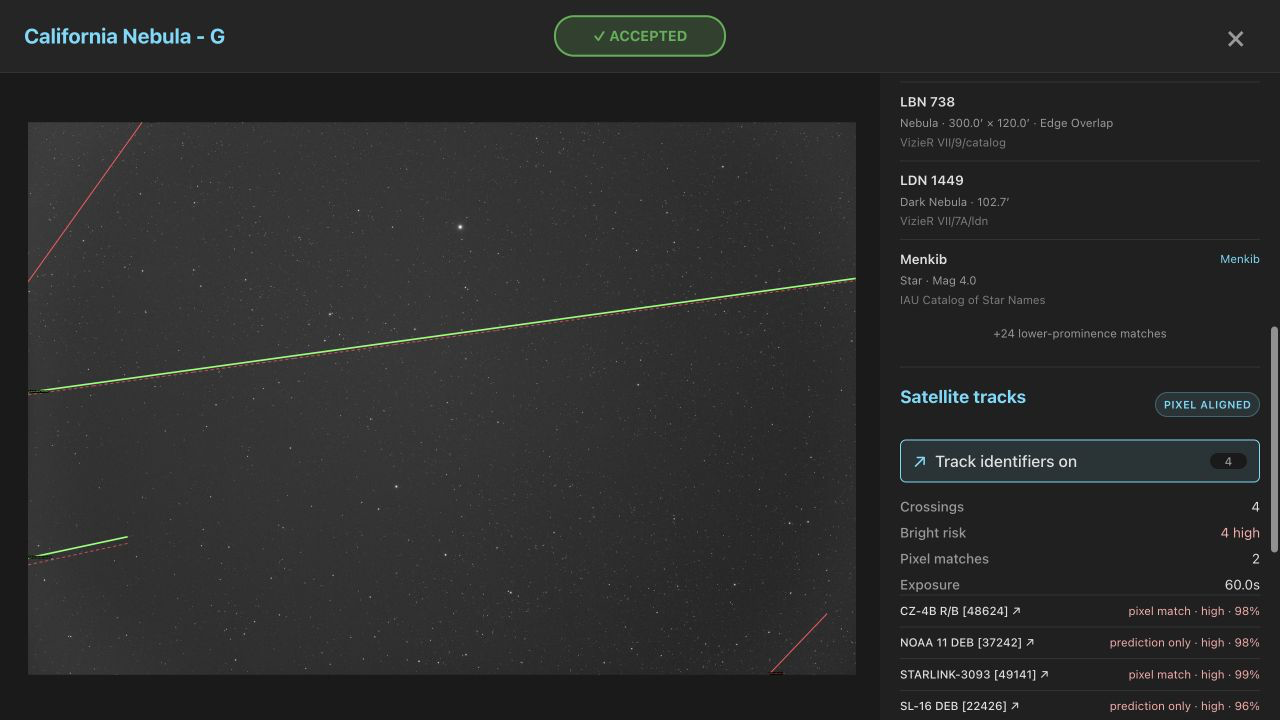
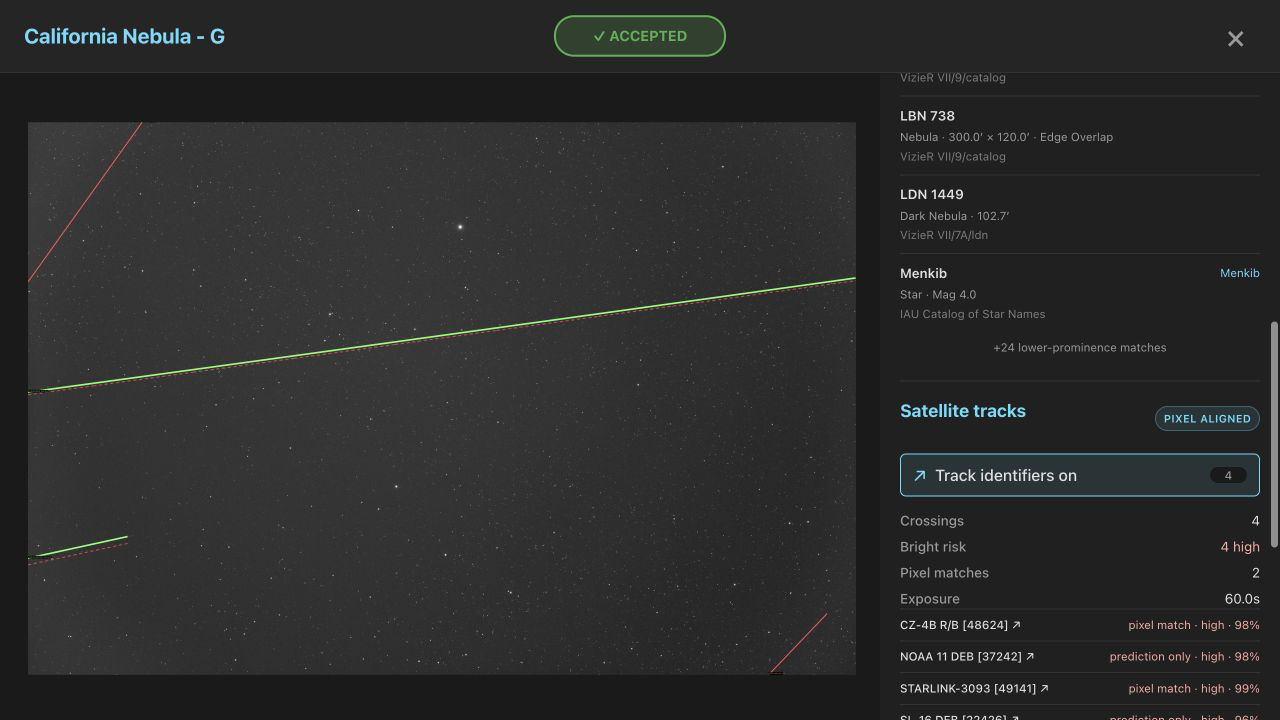
Refresh satellite trail validation docs

diff --git a/docs/satellites.html b/docs/satellites.html
@@ -112,31 +112,32 @@
   <a href="https://satchecker.readthedocs.io/en/latest/tools_tle.html">IAU SatChecker archive</a>
   predicted four high-risk crossings:</p>
   <ul>
-    <li><strong>CZ-4B R/B [48624]</strong>: matched at 55.5 sigma and 100%
-      path continuity, about 26 sensor pixels from the raw prediction;</li>
-    <li><strong>STARLINK-3093 [49141]</strong>: matched at 4.1 sigma and 100%
+    <li><strong>CZ-4B R/B [48624]</strong>: matched at 57.8 sigma and 100%
+      path continuity, about 30 sensor pixels from the raw prediction;</li>
+    <li><strong>STARLINK-3093 [49141]</strong>: matched at 4.2 sigma and 100%
       continuity, about 76 pixels from the raw prediction;</li>
     <li>two additional high-risk predictions did not match a pixel trail and
       remain prediction-only warnings.</li>
   </ul>
   <p>A fainter exposure from the preceding night independently matched
-  <strong>STARLINK-5450 [54778]</strong> at 5.8 sigma and 99.8% continuity,
-  roughly 41 pixels from the orbital path. Both dry-run regrade checks reject
+  <strong>STARLINK-5450 [54778]</strong> at 5.8 sigma and 99.7% continuity,
+  roughly 43 pixels from the orbital path. Both dry-run regrade checks reject
   the affected frame for a pixel-aligned bright trail. Named candidates link
   to their external satellite information pages for follow-up.</p>
 
   <h2 id="alignment">How pixel alignment works</h2>
-  <p>PSF Guard downsamples the frame once to at most 2,048 pixels on its long
-  axis, estimates local noise, and performs a coarse-to-fine matched-filter
-  search only in a narrow corridor normal to each predicted path. A match
-  requires at least 2.0 sigma robust line contrast and 65% path continuity.
-  It records the fitted segment, offsets, angle delta, ADU contrast,
-  significance, continuity, and search radius without modifying the original
-  orbital path.</p>
-  <p>On the 9,576 × 6,388 validation frame, release-build measurements were
-  24 ms for the shared working image and 133 ms for four candidate searches.
-  The work scales with predicted candidates rather than every possible line
-  in the full frame.</p>
+  <p>The shared Seiza matcher downsamples the frame once to at most 2,048
+  pixels on its long axis, estimates local noise, and performs a
+  coarse-to-fine matched-filter search only in a narrow corridor around the
+  full clipped prediction polyline. A match requires at least 2.0 sigma robust
+  line contrast, 65% path continuity, and 50% usable sample coverage. Tracks
+  without enough sideband evidence are reported as not evaluated rather than
+  clean non-detections.</p>
+  <p>It records the fitted polyline segments, offsets, angle delta,
+  physical-ADU contrast, significance, continuity, coverage, and search
+  radius without modifying the original orbital path. The working image is
+  shared across candidates, so work scales with the predicted crossings rather
+  than every possible line in the full frame.</p>
 
   <h2 id="grading">Risk and grading</h2>
   <p>The risk is a conservative 0–1 geometry and illumination heuristic using
@@ -149,18 +150,21 @@
   explicit confirmation.</p>
 
   <h2 id="cache">Offline and reproducible use</h2>
-  <p>The explicit on-demand action may refresh CelesTrak data. Background
-  quality scans and <code>screen-fits --regrade-db</code> are cache-only and
-  never download orbital data. For historical or reproducible analysis,
-  configure a local OMM JSON or TLE file:</p>
+  <p>The explicit on-demand action may refresh CelesTrak data. Timestamped
+  snapshots are retained for historical re-tracing up to a 5 GiB default
+  bound. Background quality scans and
+  <code>screen-fits --regrade-db</code> are cache-only, never download orbital
+  data, and select the retained snapshot closest to each exposure. For a
+  fixed historical or reproducible input, configure a local OMM JSON or TLE
+  file:</p>
   <pre><code>"astrometry": {
   "data_dir": "/var/lib/psf-guard/seiza",
   "satellite_elements": "historical.tle"
 }</code></pre>
   <p>Per-image results retain the FITS fingerprint, exact WCS, timing and site
-  headers, orbital source, alignment version, and Seiza dependency versions.
-  Replacing the image, solution, or alignment software invalidates the cached
-  result.</p>
+  headers, orbital source and payload SHA-256, alignment version, and Seiza
+  dependency versions. Replacing the image, solution, or alignment software
+  invalidates the cached result.</p>
 
   <nav class="next-prev" aria-label="Documentation pages">
     <a href="astrometry-quality.html">← Astrometry Quality</a>